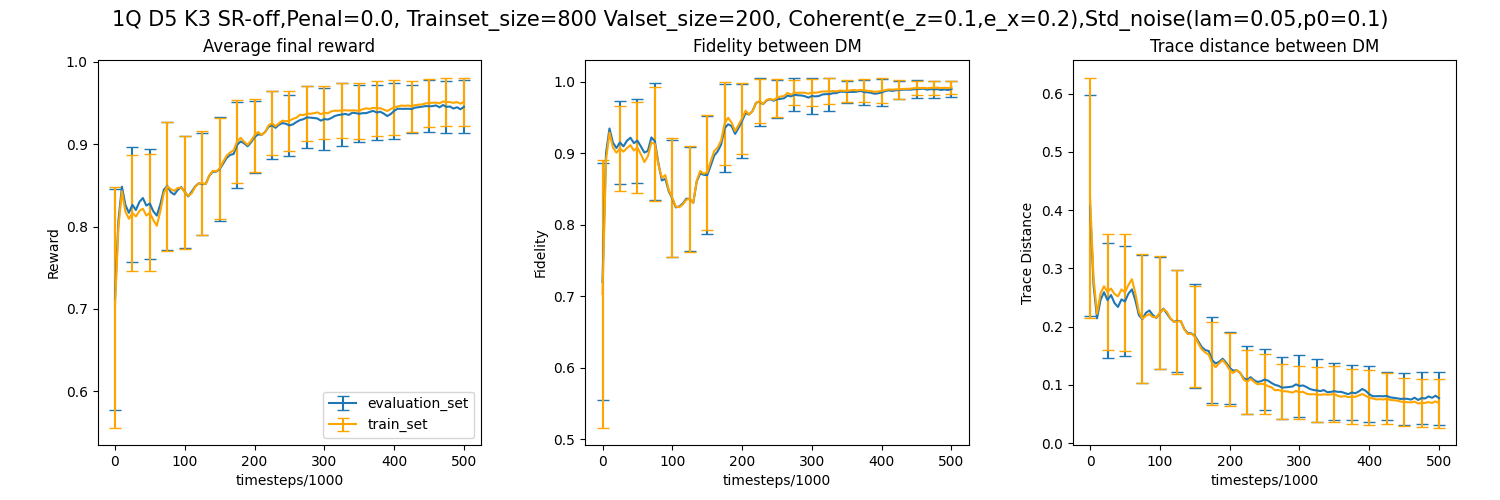
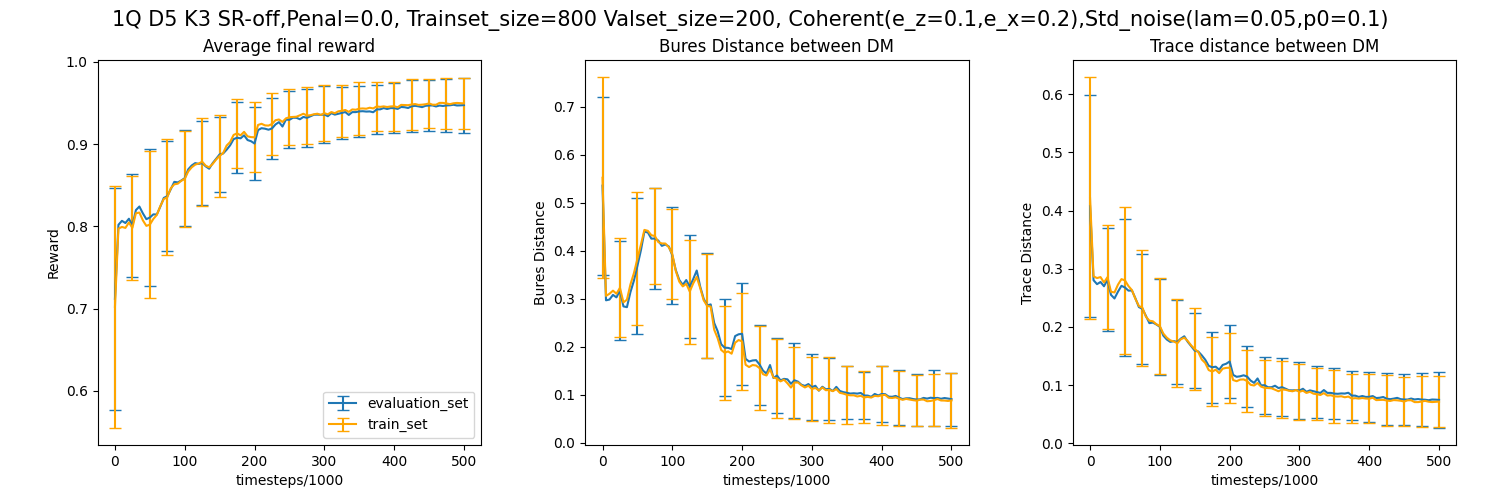
added bures p

diff --git a/src/rlnoise/policy.py b/src/rlnoise/policy.py
@@ -136,20 +136,21 @@ class CustomCallback(BaseCallback):
 
         if self.n_calls==1 or self.n_calls % self.check_freq == 0:
           # Retrieve training reward
-            rew_train,rew_train_std,fidel_train,fidel_train_std,TD_train,TD_train_std=model_evaluation(self.train_circ,self.train_label,self.environment,self.model)
-            rew_eval,rew_eval_std,fidel_eval,fidel_eval_std,TD_eval,TD_eval_std=model_evaluation(self.val_circ,self.val_label,self.environment,self.model)
-            self.train_results.append([rew_train,rew_train_std,fidel_train,fidel_train_std,TD_train,TD_train_std])
-            self.eval_results.append([rew_eval,rew_eval_std,fidel_eval,fidel_eval_std,TD_eval,TD_eval_std])
+            training_results=model_evaluation(self.train_circ,self.train_label,self.environment,self.model)
+            evaluation_results=model_evaluation(self.val_circ,self.val_label,self.environment,self.model)
+            self.train_results.append(training_results)
+            self.eval_results.append(evaluation_results)
             self.timestep_list.append(self.num_timesteps)
            
             if self.verbose:
                 print("Num timesteps: {}".format(self.num_timesteps))
-                print("Best mean reward: {:.2f} - Last mean reward per episode: {:.2f}".format(self.best_mean_reward, rew_eval))
-                print('Standard deviations: Reward_std=%f, Fidelity_std=%f, Trace distance_std=%f'%(rew_train_std,fidel_train_std,TD_train_std))
+                print("Best mean reward: {:.2f} - Last mean reward per episode: {:.2f}".format(self.best_mean_reward, evaluation_results['reward'].item()))
+                print('Standard deviations: Reward_std={:.2f}, Fidelity_std={:.2f}, Trace distance_std={:.2f}'.format(
+                    evaluation_results["reward_std"].item(),evaluation_results["fidelity_std"].item(),evaluation_results["trace_distance_std"].item()))
 
             if self.save_best is True:
-                self.save_best_model(rew_eval)
-            self.save_best_results(rew_eval,fidel_eval,TD_eval)
+                self.save_best_model(evaluation_results["reward"])
+            self.save_best_results(evaluation_results["reward"],evaluation_results["fidelity"],evaluation_results["trace_distance"])
             if debug is True:
                 print('Considering action: \n',self.environment._get_info()['Action'],' at last position: ',self.environment._get_info()['Pos'])
                 print('State AFTER action: \n',self.environment._get_info()['State_after'])
@@ -165,9 +166,9 @@ class CustomCallback(BaseCallback):
         """
         This event is triggered before exiting the `learn()` method.
         """
-        self.train_results=np.array(self.train_results)
-        self.eval_results=np.array(self.eval_results)
-        self.timestep_list=np.array(self.timestep_list)
+        self.train_results=np.asarray(self.train_results)
+        self.eval_results=np.asarray(self.eval_results)
+        self.timestep_list=np.asarray(self.timestep_list)/1000
         print('Best average results obtained on the evaluation set are:\n Reward=%f, Fidelity=%f, Trace distance=%f'%(self.best_mean_reward,self.best_mean_fidelity,self.best_mean_trace_dist))
         if self.plot is True:
             self.plot_results()
@@ -181,39 +182,39 @@ class CustomCallback(BaseCallback):
         pass 
 
     def plot_results(self):
-        train_results=np.array(self.train_results)
-        eval_results=np.array(self.eval_results)
-        time_steps=np.array(self.timestep_list)/1000
-
+        train_results=self.train_results.reshape(-1)
+        eval_results=self.eval_results.reshape(-1)
+        time_steps=self.timestep_list
         if self.test_on_data_size is None:
-            fig=plt.figure(figsize=(15,5))
+            fig, ax = plt.subplots(2, 2, figsize=(15, 8))
             fig.suptitle(self.plot_1_title, fontsize=15)
-            ax=fig.add_subplot(131)
-            ax1=fig.add_subplot(132)
-            ax2=fig.add_subplot(133)
-            plt.subplots_adjust(left=0.065, bottom=None, right=0.971, top=None, wspace=0.27, hspace=None)
-            ax.errorbar(time_steps,eval_results[:,0],yerr=eval_results[:,1],label='evaluation_set',errorevery=5,capsize=4)
-            ax.set(xlabel='timesteps/1000', ylabel='Reward',title='Average final reward')
-            ax1.errorbar(time_steps,eval_results[:,2],yerr=eval_results[:,3],errorevery=5,capsize=4)
-            ax1.set(xlabel='timesteps/1000', ylabel='Fidelity',title='Fidelity between DM')
-            ax2.errorbar(time_steps,eval_results[:,4],yerr=eval_results[:,5],errorevery=5,capsize=4)
-            ax2.set(xlabel='timesteps/1000', ylabel='Trace Distance',title='Trace distance between DM')
-
-            ax.errorbar(time_steps,train_results[:,0],yerr=train_results[:,1],color='orange',label='train_set',errorevery=5,capsize=4)
-            ax1.errorbar(time_steps,train_results[:,2],yerr=train_results[:,3],color='orange',label='train_set',errorevery=5,capsize=4)
-            ax2.errorbar(time_steps,train_results[:,4],yerr=train_results[:,5],color='orange',label='train_set',errorevery=5,capsize=4)
-            ax.legend()
-            fig.savefig(self.plot_dir+self.plot_name+'_Q%d_D%d_steps%d.png'%(self.n_qubits,self.trainset_depth,self.timestep_list[-1]))
+  
+            plt.subplots_adjust(left=0.168, bottom=0.06, right=0.865, top=0.92, wspace=0.207, hspace=0.21)
+            ax[0,0].errorbar(time_steps,eval_results["reward"],yerr=eval_results["reward_std"],label='evaluation_set',errorevery=5,capsize=4) #use list comprehension
+            ax[0,0].set(xlabel='timesteps/1000', ylabel='Reward',title='Average final reward')
+            ax[0,1].errorbar(time_steps,eval_results["fidelity"],yerr=eval_results["fidelity_std"],errorevery=5,capsize=4)
+            ax[0,1].set(xlabel='timesteps/1000', ylabel='Fidelity',title='Bures Distance between DM')
+            ax[1,0].errorbar(time_steps,eval_results["trace_distance"],yerr=eval_results["trace_distance_std"],errorevery=5,capsize=4)
+            ax[1,0].set(xlabel='timesteps/1000', ylabel='Trace Distance',title='Trace distance between DM')
+            ax[1,1].errorbar(time_steps,eval_results["bures_distance"],yerr=eval_results["bures_distance_std"],errorevery=5,capsize=4)
+            ax[1,1].set(xlabel='timesteps/1000', ylabel='Bures Distance',title='Bures distance between DM')
+   
+            ax[0,0].errorbar(time_steps,train_results["reward"],yerr=train_results["reward_std"],color='orange',label='train_set',errorevery=5,capsize=4)
+            ax[0,1].errorbar(time_steps,train_results["fidelity"],yerr=train_results["fidelity_std"],color='orange',label='train_set',errorevery=5,capsize=4)
+            ax[1,0].errorbar(time_steps,train_results["trace_distance"],yerr=train_results["trace_distance_std"],color='orange',label='train_set',errorevery=5,capsize=4)
+            ax[1,1].errorbar(time_steps,train_results["bures_distance"],yerr=train_results["bures_distance_std"],color='orange',label='train_set',errorevery=5,capsize=4)
+            ax[0,0].legend()
+            fig.savefig(self.plot_dir+self.plot_name+'_Q%d_D%d_steps%d.png'%(self.n_qubits,self.trainset_depth,self.timestep_list[-1]),dpi=300)
             plt.show()
         else:
             fig=plt.figure(figsize=(5,5))
-            fig.suptitle('3Q w CZ D7 K3 SR-off train dataset size=%d, val dataset size=%d'%(self.dataset_size,len(self.val_circ)) , fontsize=15)
+            fig.suptitle('1Q w CZ D5 K3 SR-off train dataset size=%d, val dataset size=%d'%(self.dataset_size,len(self.val_circ)) , fontsize=15)
             ax=fig.add_subplot(111)
             ax.set(xlabel='timesteps/1000', ylabel='Reward',title='Average final reward')
             ax.plot(time_steps,eval_results[:,0],label='evaluation_set',marker='x')
             ax.plot(time_steps,train_results[:,0],color='orange',label='train_set',marker='x')
             ax.legend()
-            fig.savefig(self.plot_dir+'test_size%d_D_%d_Dep-Term_CZ_%dQ'%(self.dataset_size,self.trainset_depth,self.n_qubits))
+            fig.savefig(self.plot_dir+'test_size%d_D_%d_Dep-Term_CZ_%dQ.png'%(self.dataset_size,self.trainset_depth,self.n_qubits),dpi=300)
             #plt.show()
         
 
@@ -222,16 +223,17 @@ class CustomCallback(BaseCallback):
         # and a more complex one (same depth but test circuit sligthly different noise parameter)
         pass
 
-    def save_best_results(self,reward,fidelity,trace_dist):
-        if reward>self.best_mean_reward:
+    def save_best_results(self,reward,fidelity,trace_dist): 
+        reward=reward.item() 
+        fidelity=fidelity.item()
+        trace_dist=trace_dist.item()
+        if fidelity > self.best_mean_fidelity and trace_dist < self.best_mean_trace_dist:
             self.best_mean_reward=reward
-        if fidelity > self.best_mean_fidelity:
             self.best_mean_fidelity=fidelity
-        if trace_dist < self.best_mean_trace_dist:
-            self.best_mean_trace_dist=trace_dist
+            self.best_mean_trace_dist=trace_dist           
 
     def save_best_model(self,reward):
-        if reward > self.best_mean_reward:
+        if reward.item() > self.best_mean_reward:
             if self.verbose:
                 print("Saving new best model at {} timesteps".format(self.num_timesteps))
                 print("Saving new best model to {}.zip".format(self.save_path))

diff --git a/src/rlnoise/utils.py b/src/rlnoise/utils.py
@@ -143,6 +143,7 @@ def model_evaluation(evaluation_circ,evaluation_labels,train_environment,model):
 
     avg_rew=[]
     avg_trace_distance=[]
+    avg_bures_distance=[]
     avg_fidelity=[]
     n_circ=len(evaluation_circ)
     
@@ -183,8 +184,9 @@ def model_evaluation(evaluation_circ,evaluation_labels,train_environment,model):
         predicted_rep=environment.get_circuit_rep()
         dm_untrained=np.array(predicted_circ().state())
         avg_rew.append(rewards)
-        avg_fidelity.append(bures_distance(evaluation_labels[i],dm_untrained))
+        avg_fidelity.append(compute_fidelity(evaluation_labels[i],dm_untrained))
         avg_trace_distance.append(trace_distance(evaluation_labels[i],dm_untrained))
+        avg_bures_distance.append(bures_distance(evaluation_labels[i],dm_untrained))
         if i==0 and DEBUG:
             noise_model=CustomNoiseModel(primitive_gates=params.get('noise','primitive_gates'),lam=params.get('noise','dep_lambda'),p0=params.get('noise','p0'),x_coherent_on_gate=['rx'],z_coherent_on_gate=['rz'],epsilon_x=params.get('noise','epsilon_x'),epsilon_z=params.get('noise','epsilon_z'),damping_on_gate=params.get('noise','damping_on_gate'),depol_on_gate=params.get('noise','depol_on_gate')) 
             test_rep=evaluation_circ[i]
@@ -197,7 +199,17 @@ def model_evaluation(evaluation_circ,evaluation_labels,train_environment,model):
     rew=np.array(avg_rew)
     fid=np.array(avg_fidelity)
     trace_d=np.array(avg_trace_distance)
-    return rew.mean(),rew.std(),fid.mean(),fid.std(),trace_d.mean(),trace_d.std()
+    bures_d=np.array(avg_bures_distance)
+    results=np.array([(rew.mean(),rew.std(),
+                       fid.mean(),fid.std(),
+                       trace_d.mean(),trace_d.std(),
+                       bures_d.mean(),bures_d.std())],
+                       dtype=[('reward','<f4'),('reward_std','<f4'),
+                              ('fidelity','<f4'),('fidelity_std','<f4'),
+                              ('trace_distance','<f4'),('trace_distance_std','<f4'),
+                              ('bures_distance','<f4'),('bures_distance_std','<f4')                         
+                            ])
+    return results
 
 
 

diff --git a/model_train_eval.py b/model_train_eval.py
@@ -74,7 +74,7 @@ Rew_Mae_TraceD_trained=[]
 
                                                 #SINGLE TRAIN AND VALID
 
-callback=CustomCallback(check_freq=5000,evaluation_set=tmp,train_environment=circuit_env_training,trainset_depth=circuits_depth,verbose=True)                                          
+callback=CustomCallback(check_freq=5000,verbose=True,evaluation_set=tmp,train_environment=circuit_env_training,trainset_depth=circuits_depth)                                          
 model = PPO(
 policy,
 circuit_env_training,
